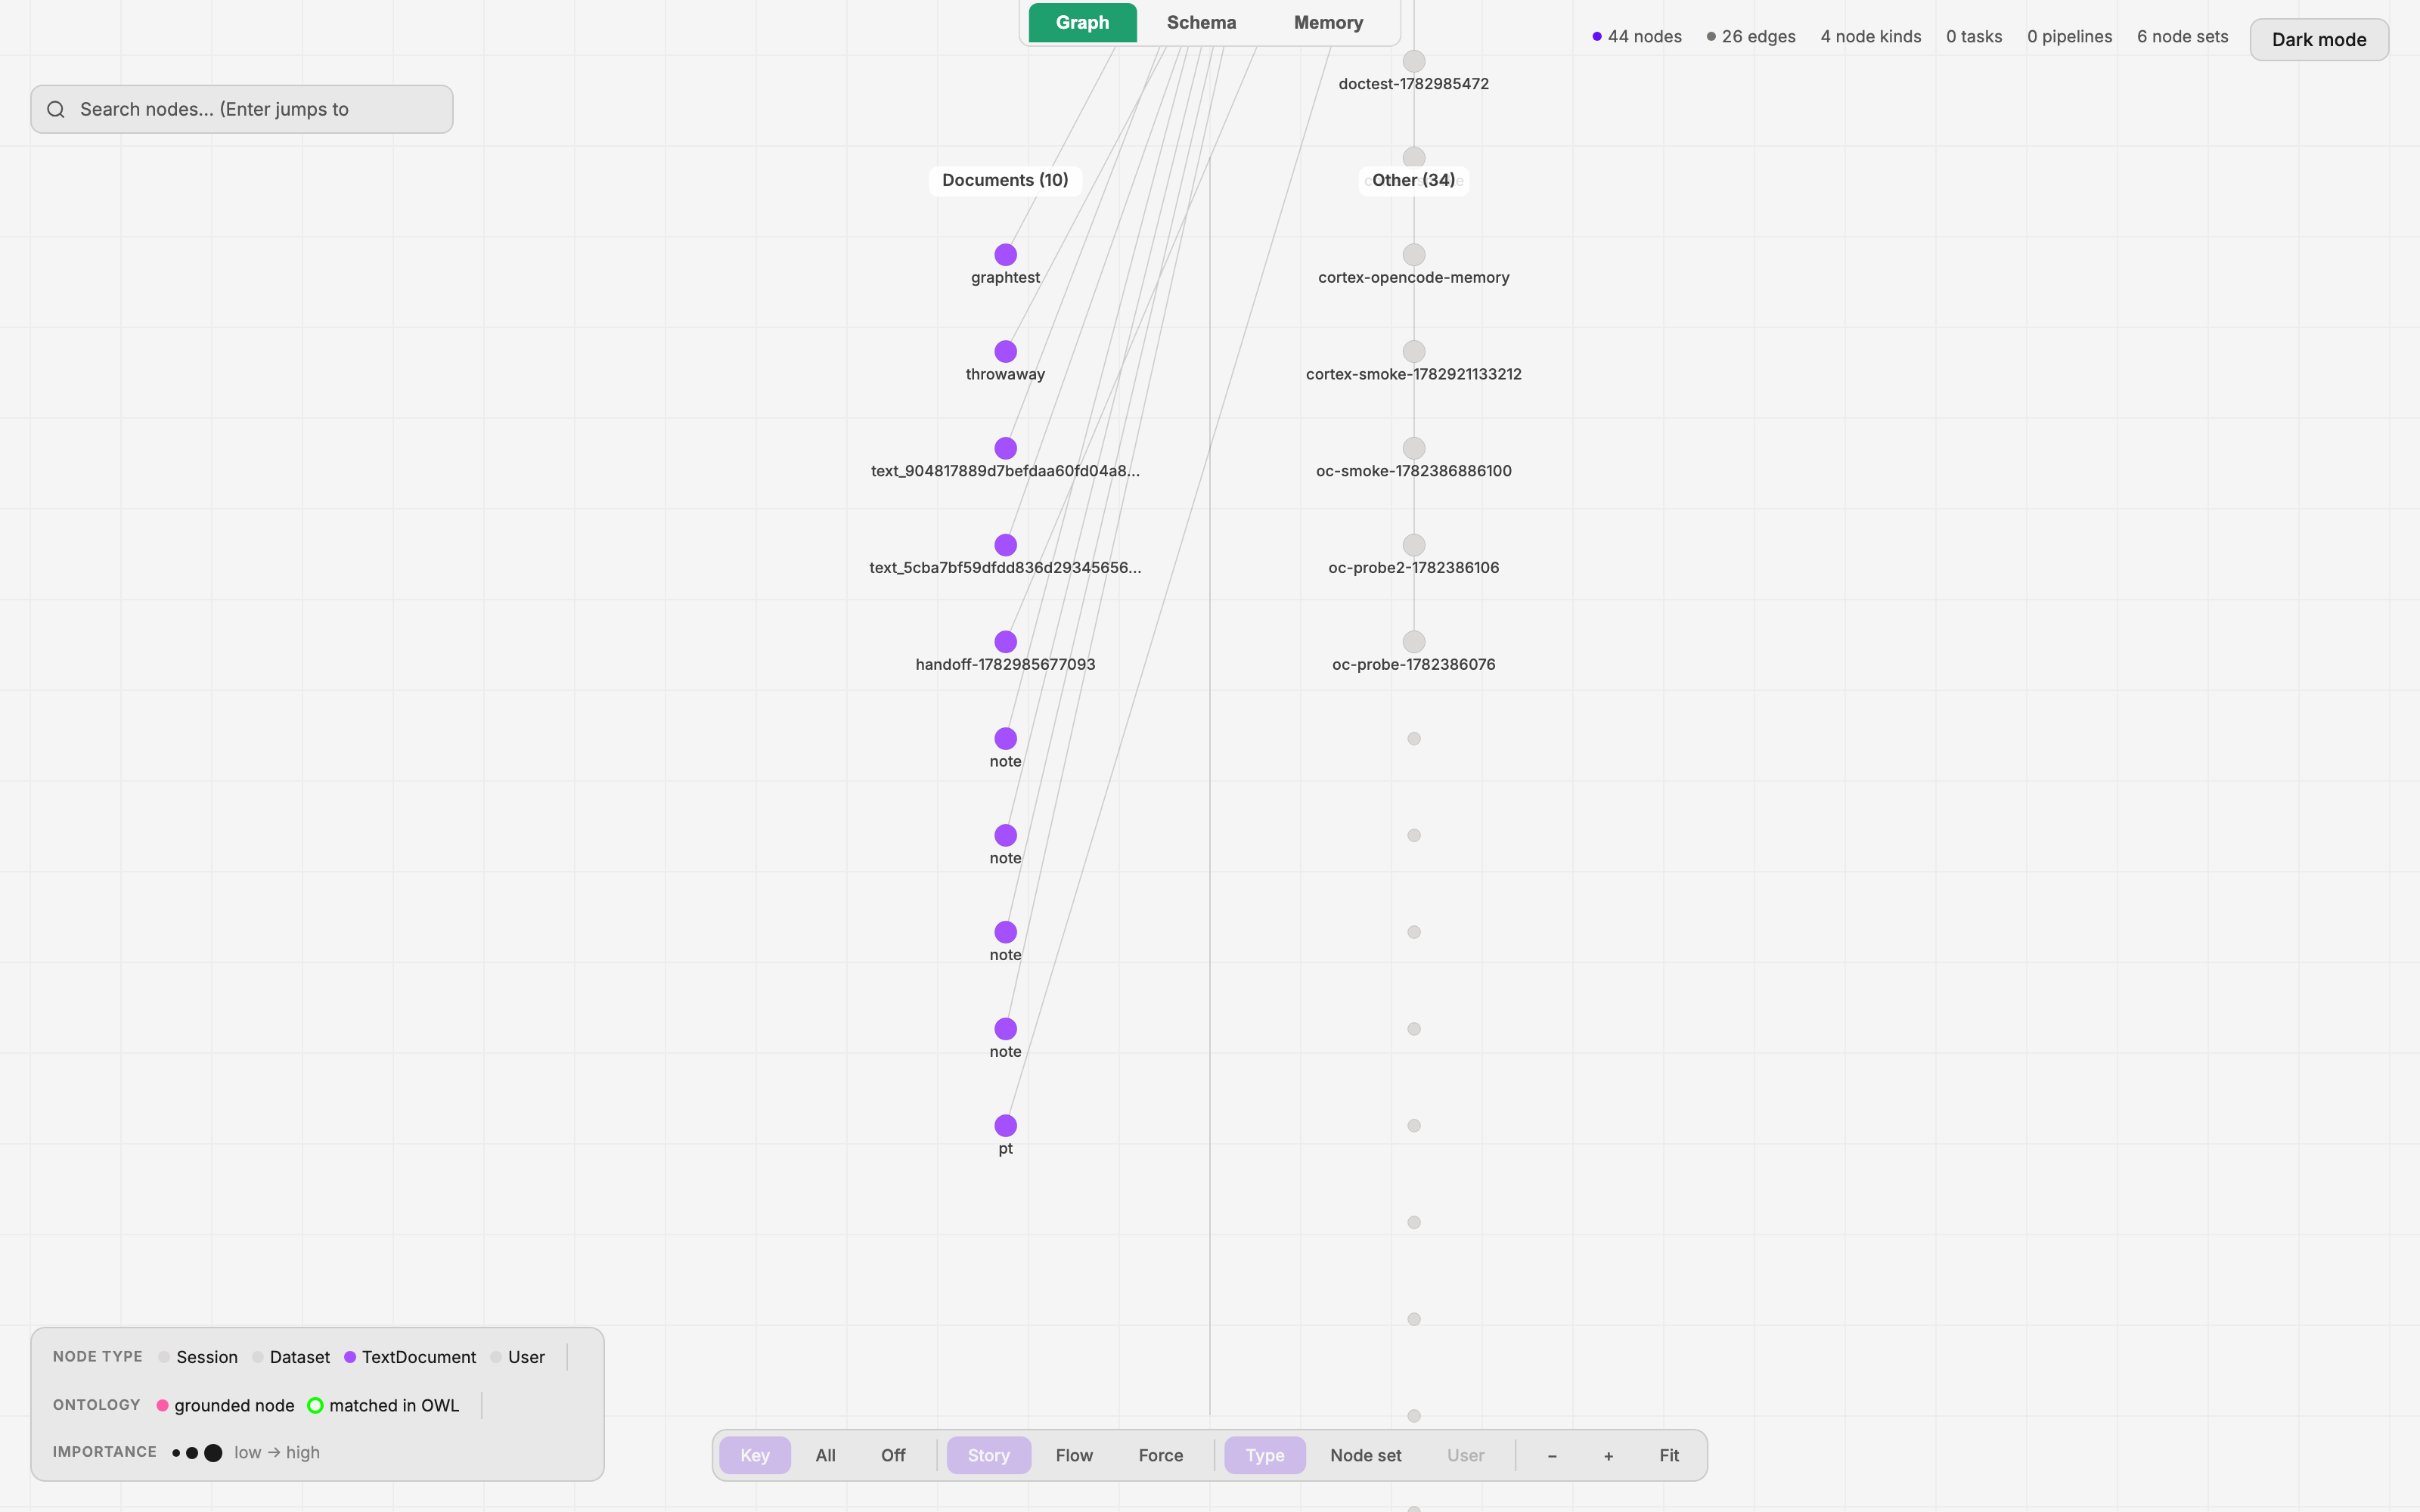
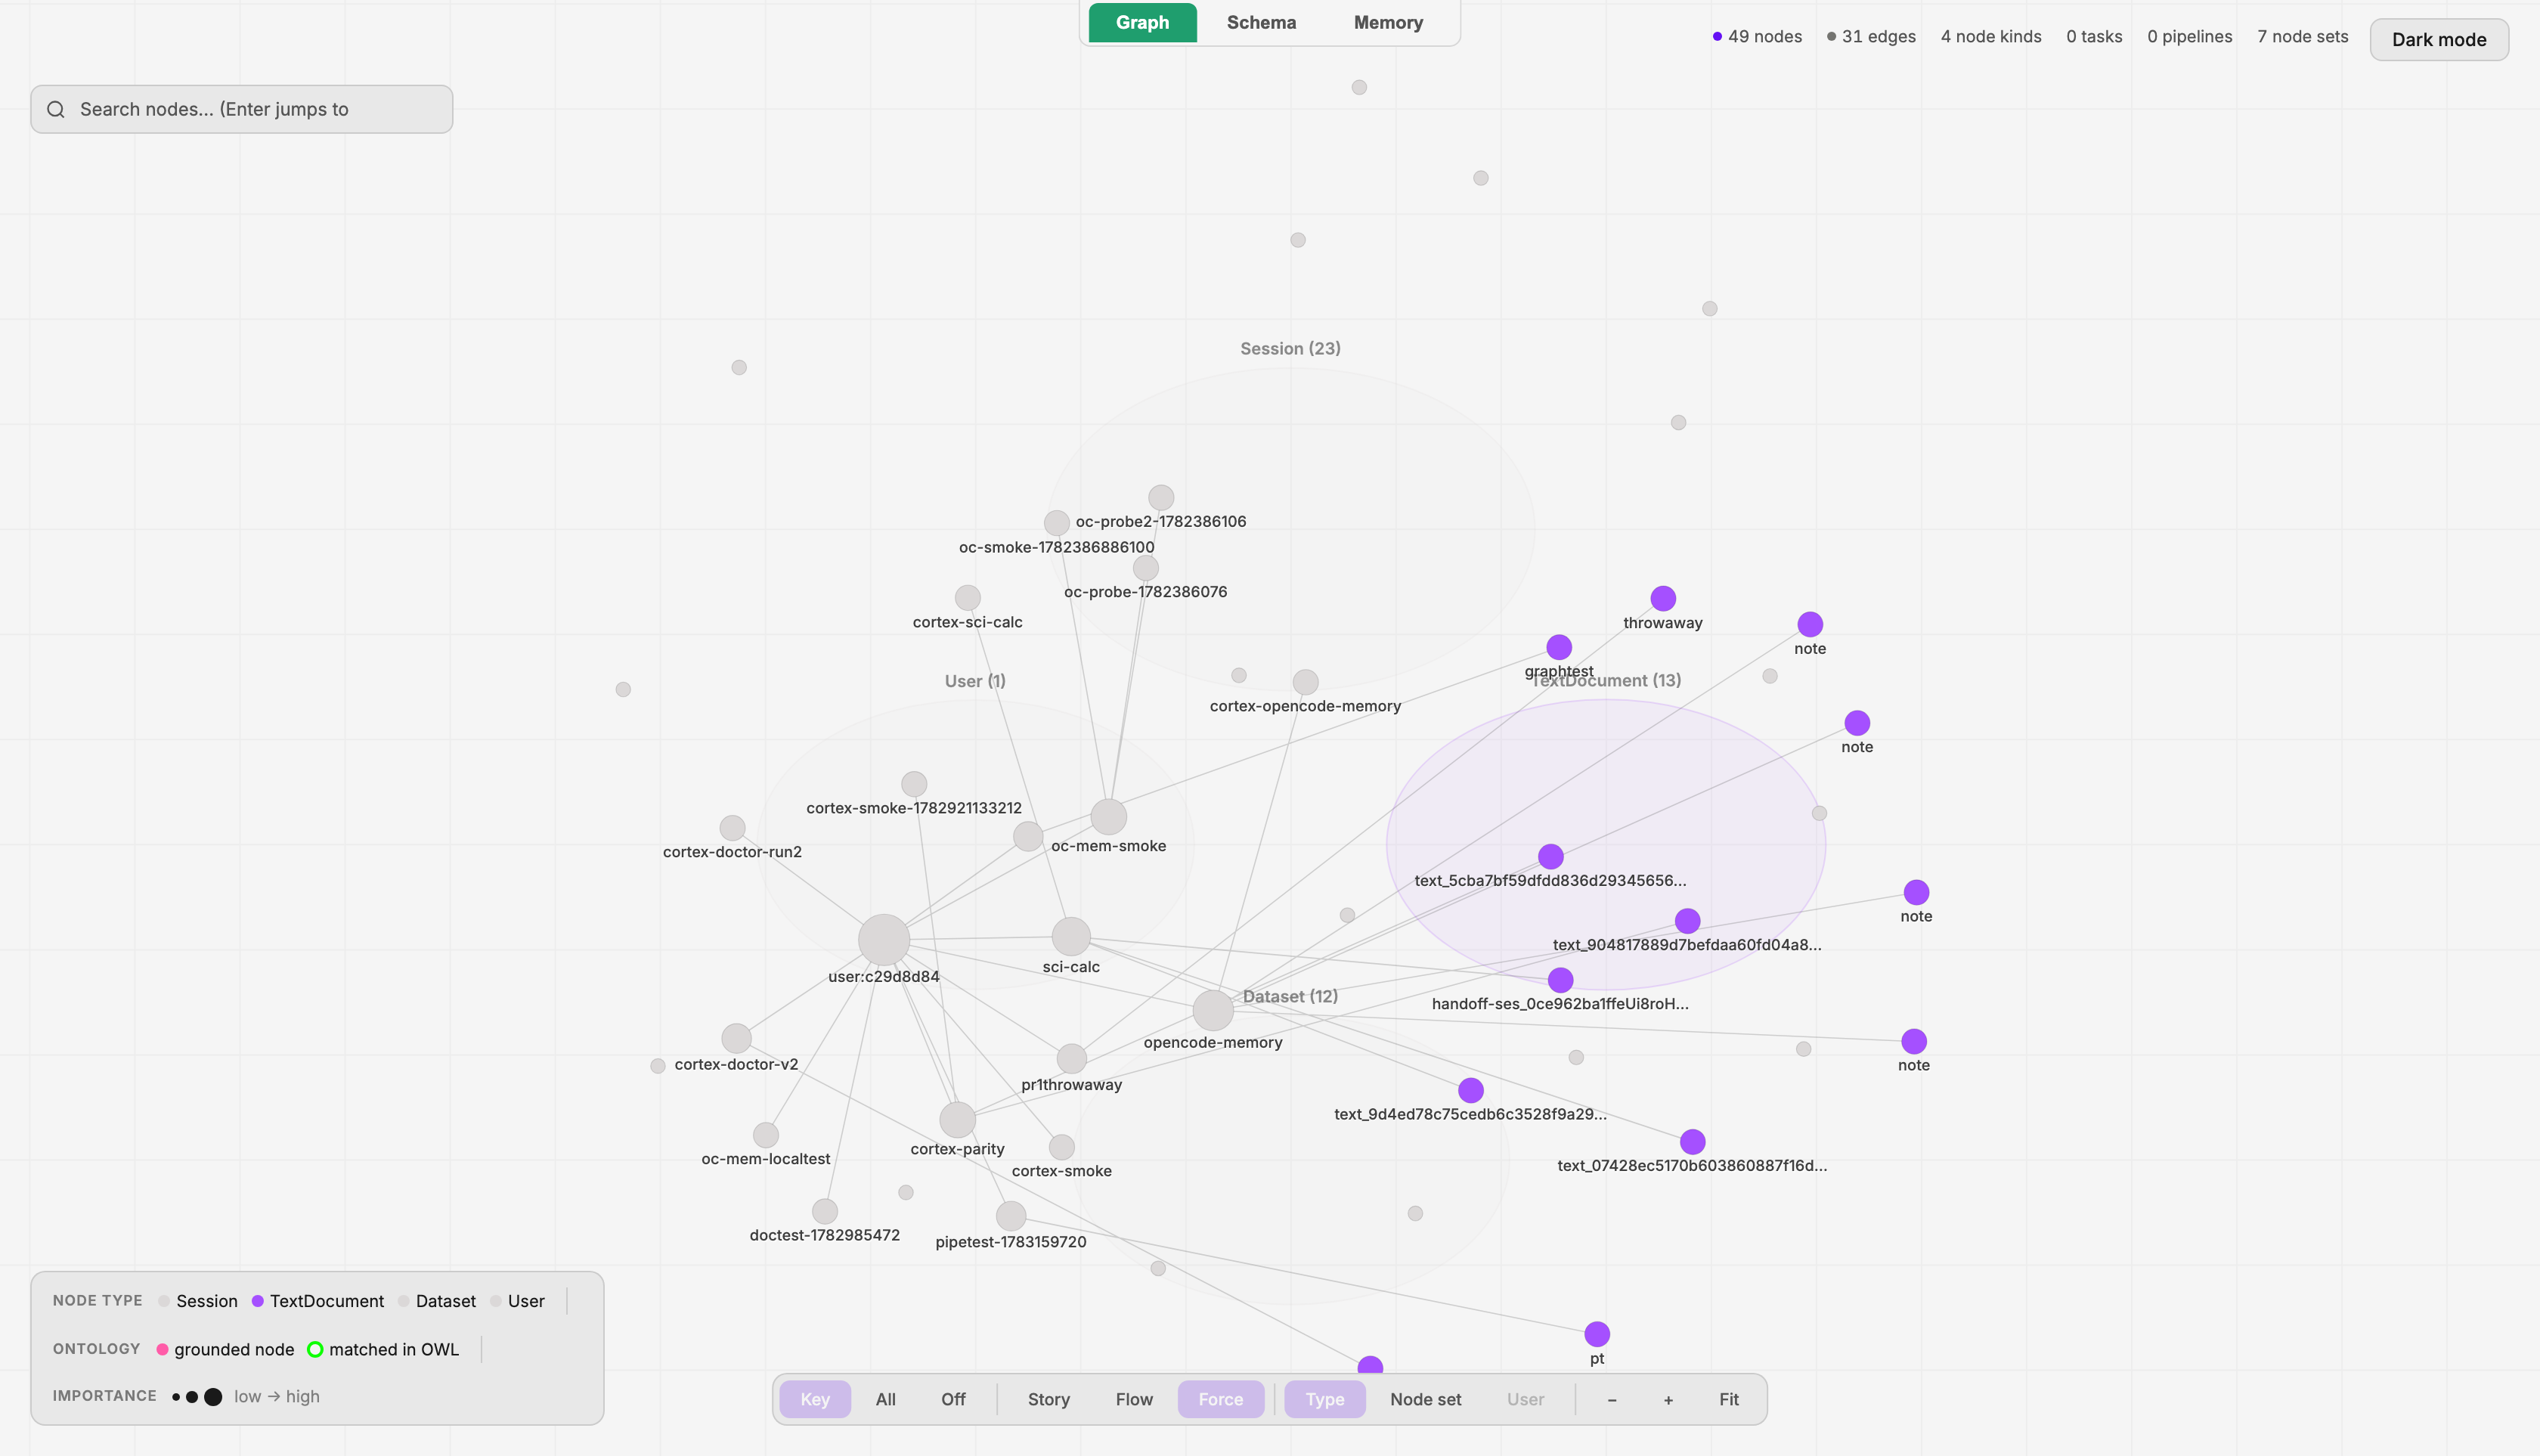
Swap in real cross-agent screenshots
Replaces the placeholder shots with real ones from a demo on a scientific
calculator project: the setup wizard wiring all four agents and ending on
DOCTOR PASS, then OpenCode, Claude Code, Codex, and Kimi each working on that one
repo and sharing the same memory. Reworked the "See it work" section into three
parts (setup, four agents one memory, under the hood).

Recaptured the Cognee graph in a proper force-directed layout so it reads as a
graph. Dropped doctor-pass.png since the setup screenshot already shows the
DOCTOR PASS line.

diff --git a/README.md b/README.md
@@ -20,17 +20,41 @@ The wizard detects your agents, asks what to wire up and where, then builds, wri
 
 ## See it work
 
-A decision recorded by each agent, then recalled by a different one. It passes only if every write crosses over.
+### One command sets it up
 
-![bun run allagents printing ALL-AGENTS PASS across OpenCode, Claude Code, Codex, and Kimi](assets/images/allagents-pass.png)
+`bun run setup` detects your agents, wires each one, writes the config, and verifies the link with `doctor`, all in a single flow.
 
-The Cognee memory graph behind it, with the datasets, session handoffs, and documents Cortex Bridge wrote.
+![bun run setup wiring the four agents and ending with DOCTOR PASS](assets/images/bun-run-setup.png)
 
-![The Cognee memory graph, showing datasets and session handoff nodes](assets/images/cognee-graph.png)
+### Four agents, one memory
 
-The quick two-agent canary: agent B recalls agent A's write on the shared session.
+The real thing: OpenCode, Claude Code, Codex, and Kimi all working on one scientific calculator repo and sharing memory. A decision made once is known by every agent.
 
-![bun run doctor printing DOCTOR PASS](assets/images/doctor-pass.png)
+OpenCode implements `tan()` following the project's conventions (radians, raise ValueError), which live in the shared memory.
+
+![OpenCode implementing tan() following the shared conventions](assets/images/opencode-add-tan.png)
+
+Claude Code, in the same repo, explains those conventions and points to Cortex Bridge as the canonical record.
+
+![Claude Code explaining the conventions and crediting Cortex Bridge](assets/images/claude-code.png)
+
+Codex knows the parsing algorithm the team chose, the shunting-yard algorithm.
+
+![Codex recalling the chosen parsing algorithm](assets/images/codex.png)
+
+Kimi summarizes every decision the project has made, and credits Cortex Bridge for the cross-agent recall.
+
+![Kimi summarizing the shared decisions](assets/images/kimi.png)
+
+### Under the hood
+
+The Cognee memory graph the agents write to: datasets, sessions, documents, and handoffs.
+
+![The Cognee memory graph](assets/images/cognee-graph.png)
+
+And the automated proof, four agents each recalling another's write on one dataset.
+
+![bun run allagents printing ALL-AGENTS PASS](assets/images/allagents-pass.png)
 
 This repo is a workspace:
 